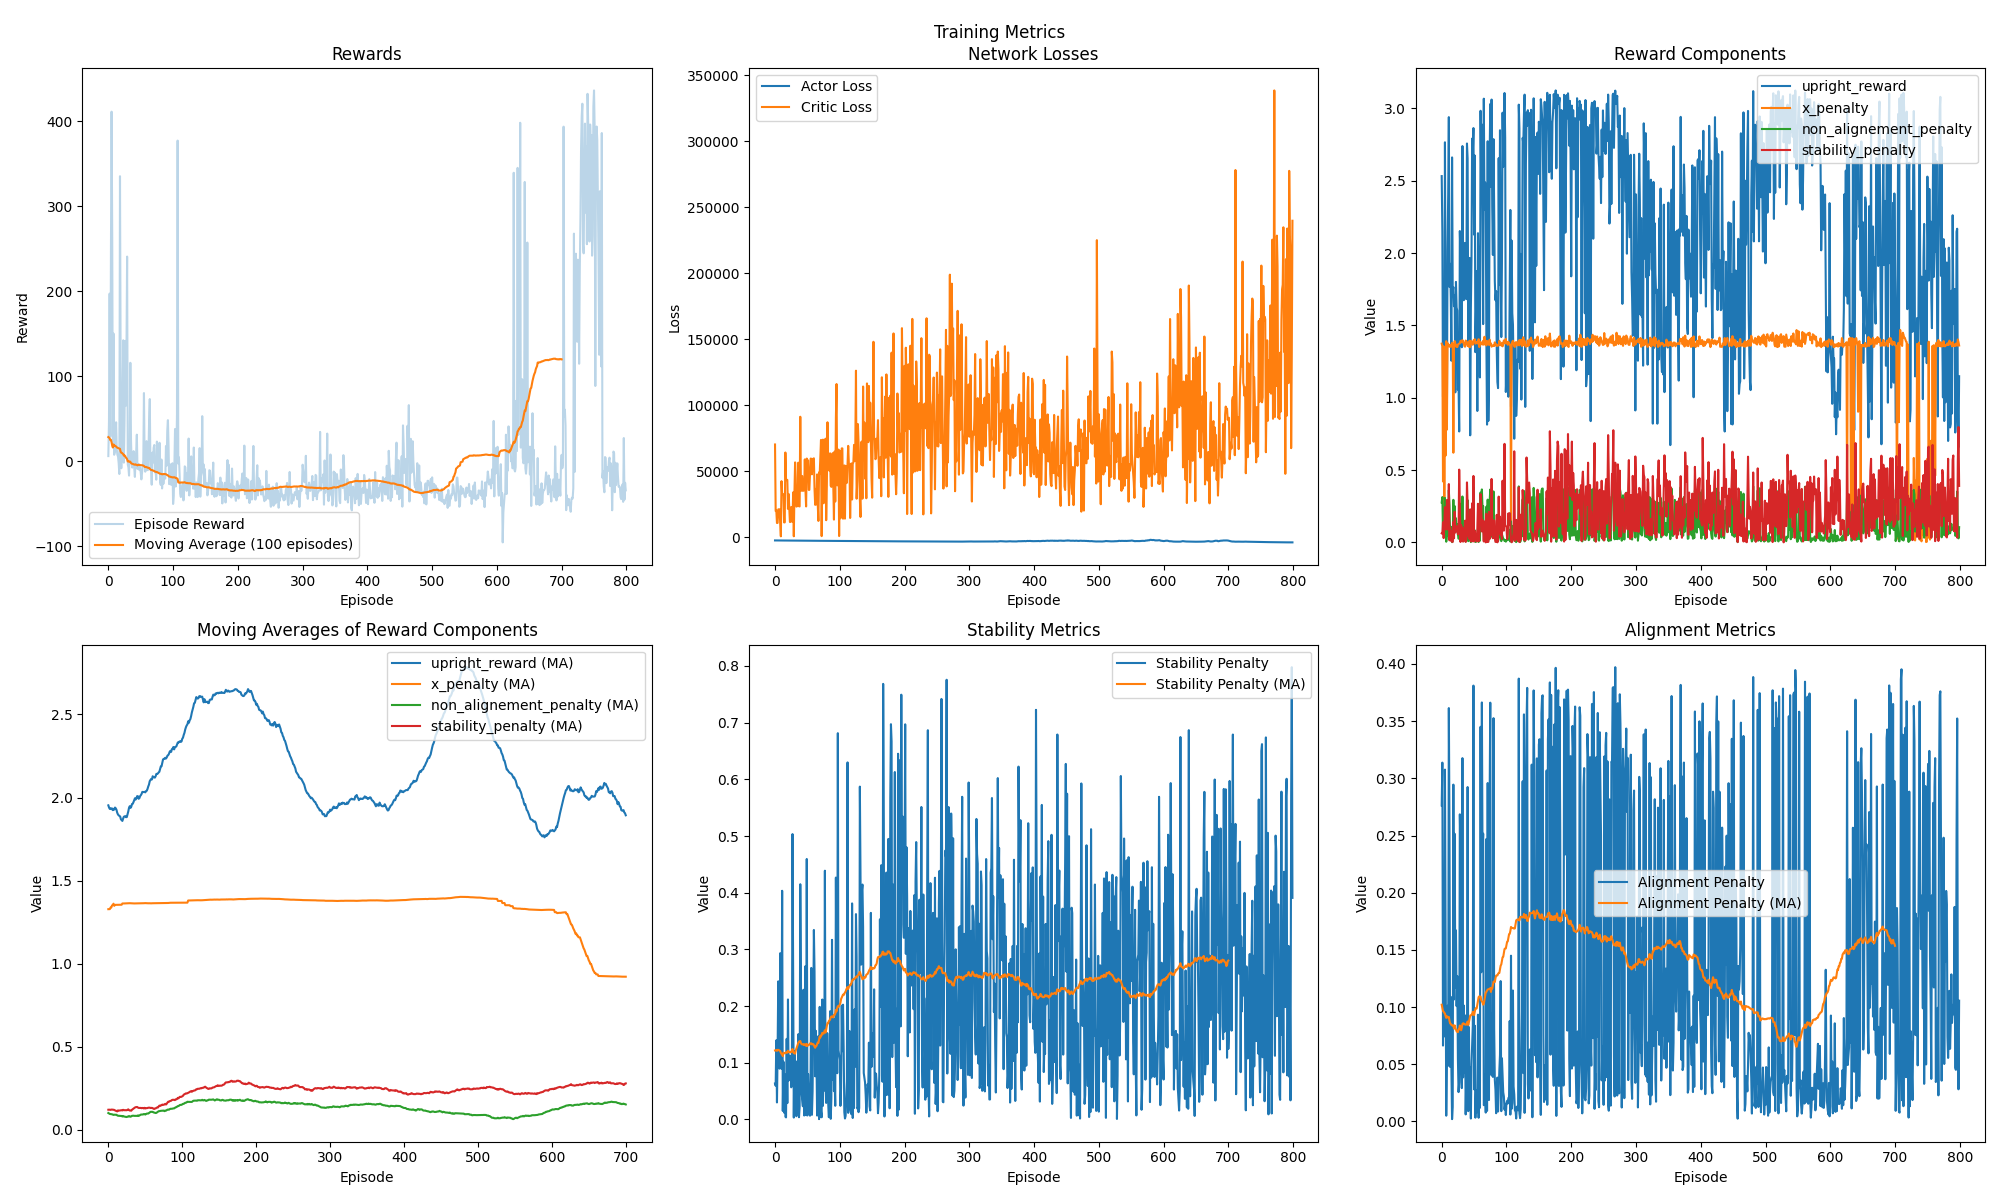
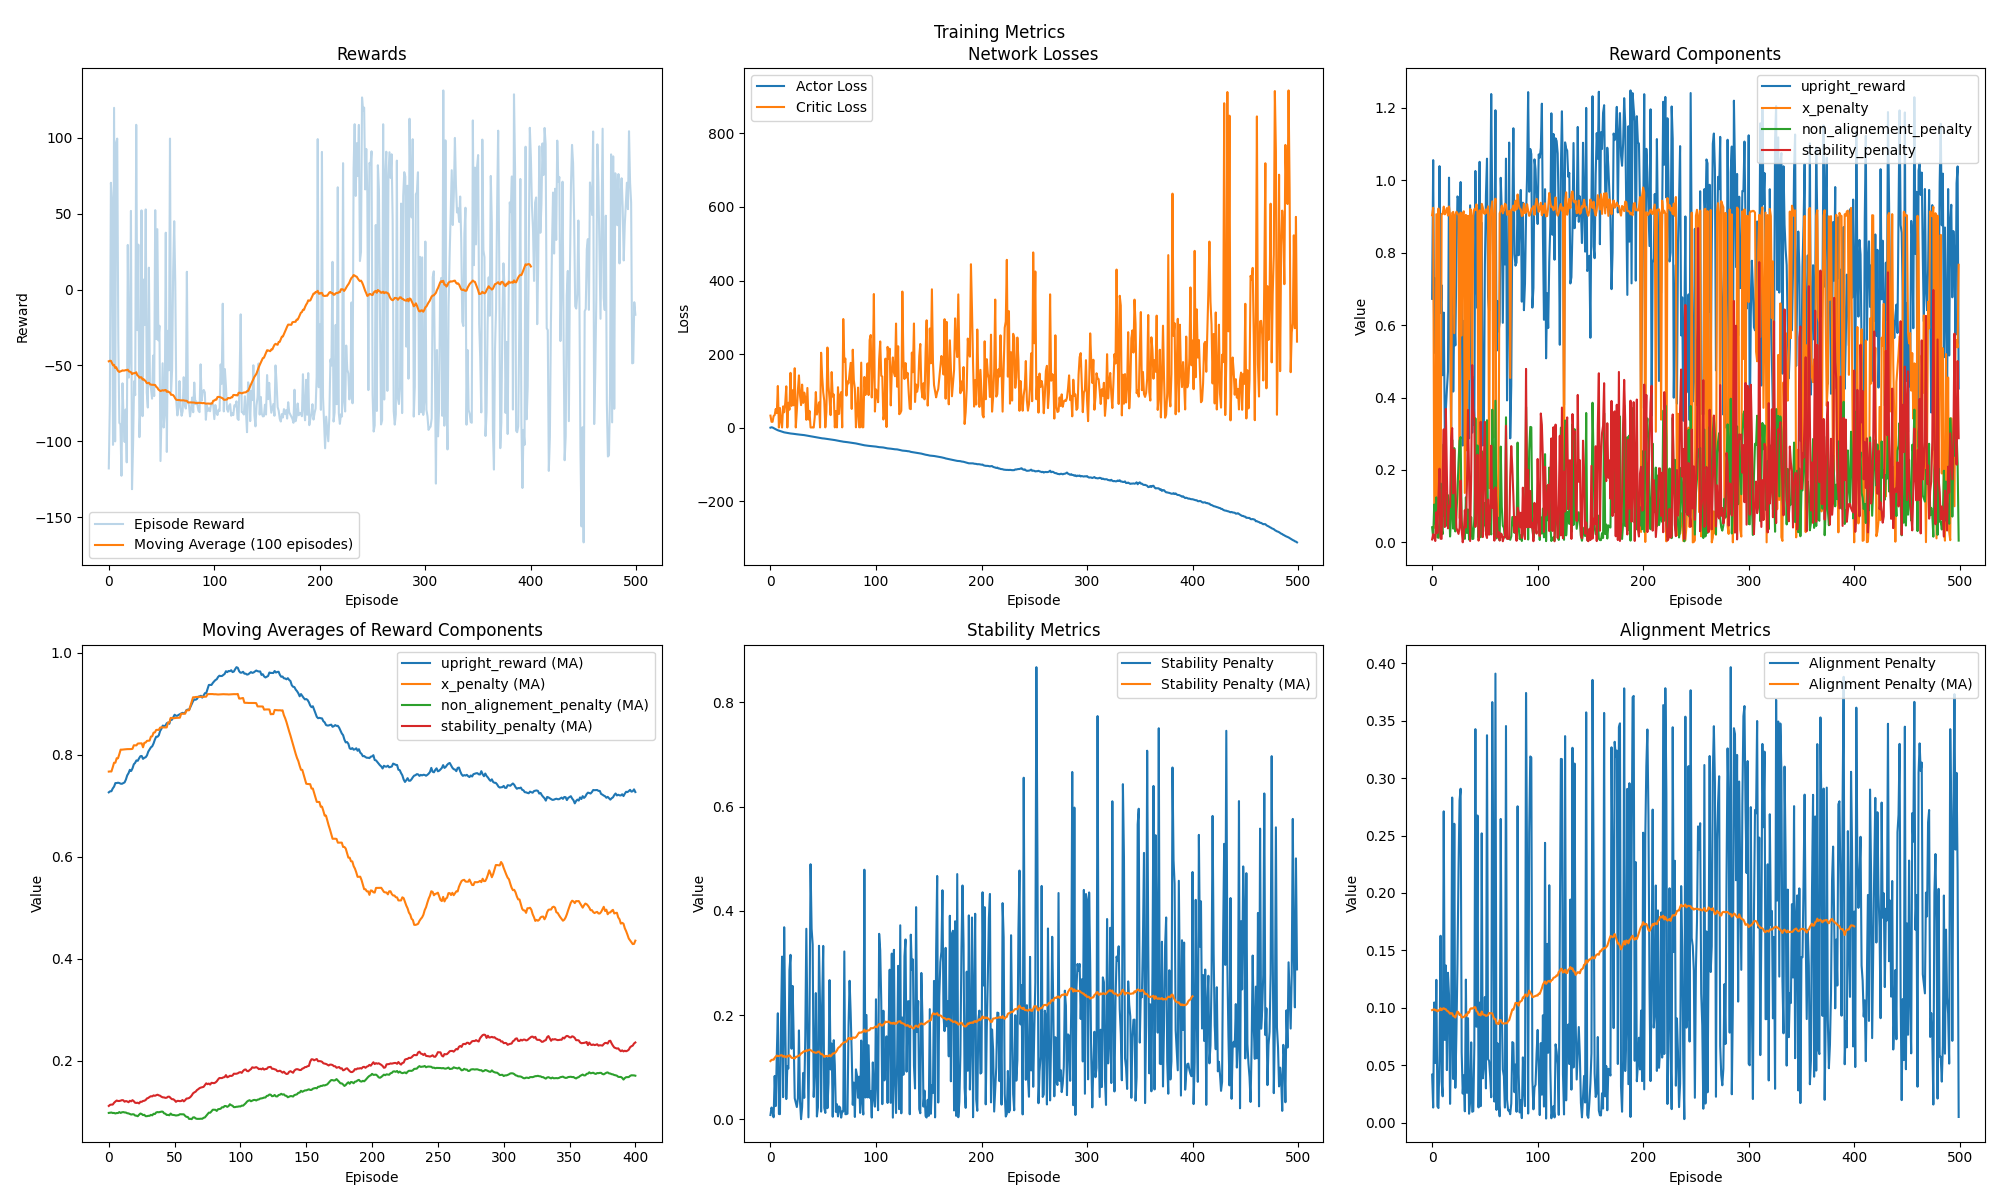
Update TriplePendulum environment to enhance rendering control and state representation
Refactor the rendering logic to include a frame rate control mechanism and add binary indicators for proximity to screen edges. Adjust state dimensions to accommodate new visual information. Modify reward weights for improved performance and update metrics image to reflect these changes.

diff --git a/env.py b/env.py
@@ -83,12 +83,13 @@ class TriplePendulumEnv(gym.Env):
         # Rendering
         self.render_mode = render_mode
         self.screen = None
-        self.clock = pygame.time.Clock()
         self.screen_width = 800
         self.screen_height = 600
         self.cart_y_pos = 300   # y-position of cart in the rendered view
         self.pixels_per_meter = 100
-        
+        self.tick = 30
+        self.clock = pygame.time.Clock()
+
         # Font for metrics display
         self.font = None
 
@@ -359,10 +360,14 @@ class TriplePendulumEnv(gym.Env):
         end2_x, end2_y = end2_x / self.screen_width, end2_y / self.screen_height
         end3_x, end3_y = end3_x / self.screen_width, end3_y / self.screen_height
 
+        # Binary warning if close to the edge of the screen
+        close_to_left = (x < -2.4)
+        close_to_right = (x > 2.4)
+        
         # Create model-ready state (only include necessary information)
         model_state = np.concatenate([
             processed_state[:12],  # Original 12 state variables
-            [pivot1_x, pivot1_y, end1_x, end1_y, end2_x, end2_y, end3_x, end3_y]  # Additional visual information
+            [pivot1_x, pivot1_y, end1_x, end1_y, end2_x, end2_y, end3_x, end3_y, close_to_left, close_to_right]  # Additional visual information
         ])
 
         return model_state
@@ -650,6 +655,8 @@ class TriplePendulumEnv(gym.Env):
                 bar_y += bar_spacing
 
         pygame.display.flip()
+        # Control frame rate
+        self.clock.tick(self.tick)
 
     def close(self):
         if self.screen is not None:
@@ -665,7 +672,6 @@ class TriplePendulumEnv(gym.Env):
         # Only create a new screen if it doesn't exist
         if self.screen is None:
             self.screen = pygame.display.set_mode((self.screen_width, self.screen_height))
-            self.clock = pygame.time.Clock()
             
             # Set up a nicer font if available
             try:

diff --git a/train.py b/train.py
@@ -34,7 +34,7 @@ class TriplePendulumTrainer:
         
         # Initialize models
         # Original state dimension is 12 (basic state) + 8 (visual information)
-        state_dim = 20
+        state_dim = 22
         action_dim = 1
         self.actor = TriplePendulumActor(state_dim, action_dim)
         self.critic = TriplePendulumCritic(state_dim, action_dim)
@@ -198,15 +198,12 @@ class TriplePendulumTrainer:
             
             # Adjust clock speed based on episode number
             if episode % 100 == 0:
-                self.env.clock = pygame.time.Clock()
-                self.env.clock.tick(30)  # Slower rendering for visualization
                 self.env.render_mode = "human"
+                self.env.tick = 60
             elif episode % 10 == 9:
-                self.env.clock = pygame.time.Clock()
-                self.env.clock.tick(2000)  # Faster rendering for training
                 self.env.render_mode = "human"
+                self.env.tick = 2000
             else:
-                self.env.clock = None
                 self.env.render_mode = None
                 
             # Collect trajectory and store in replay buffer

diff --git a/reward.py b/reward.py
@@ -2,11 +2,11 @@ import numpy as np
 import random as rd
 class RewardManager:
     def __init__(self):
-        self.cart_position_weight = 0.15
+        self.cart_position_weight = 0.10
         self.termination_penalty = 100.0
         self.alignement_weight = 0.1
-        self.upright_weight = 2.5
-        self.stability_weight = 0.001  # Weight for the stability reward
+        self.upright_weight = 1.0
+        self.stability_weight = 0.005  # Weight for the stability reward
         self.old_state = None
         self.length = 0.5  # Pendulum length
 
